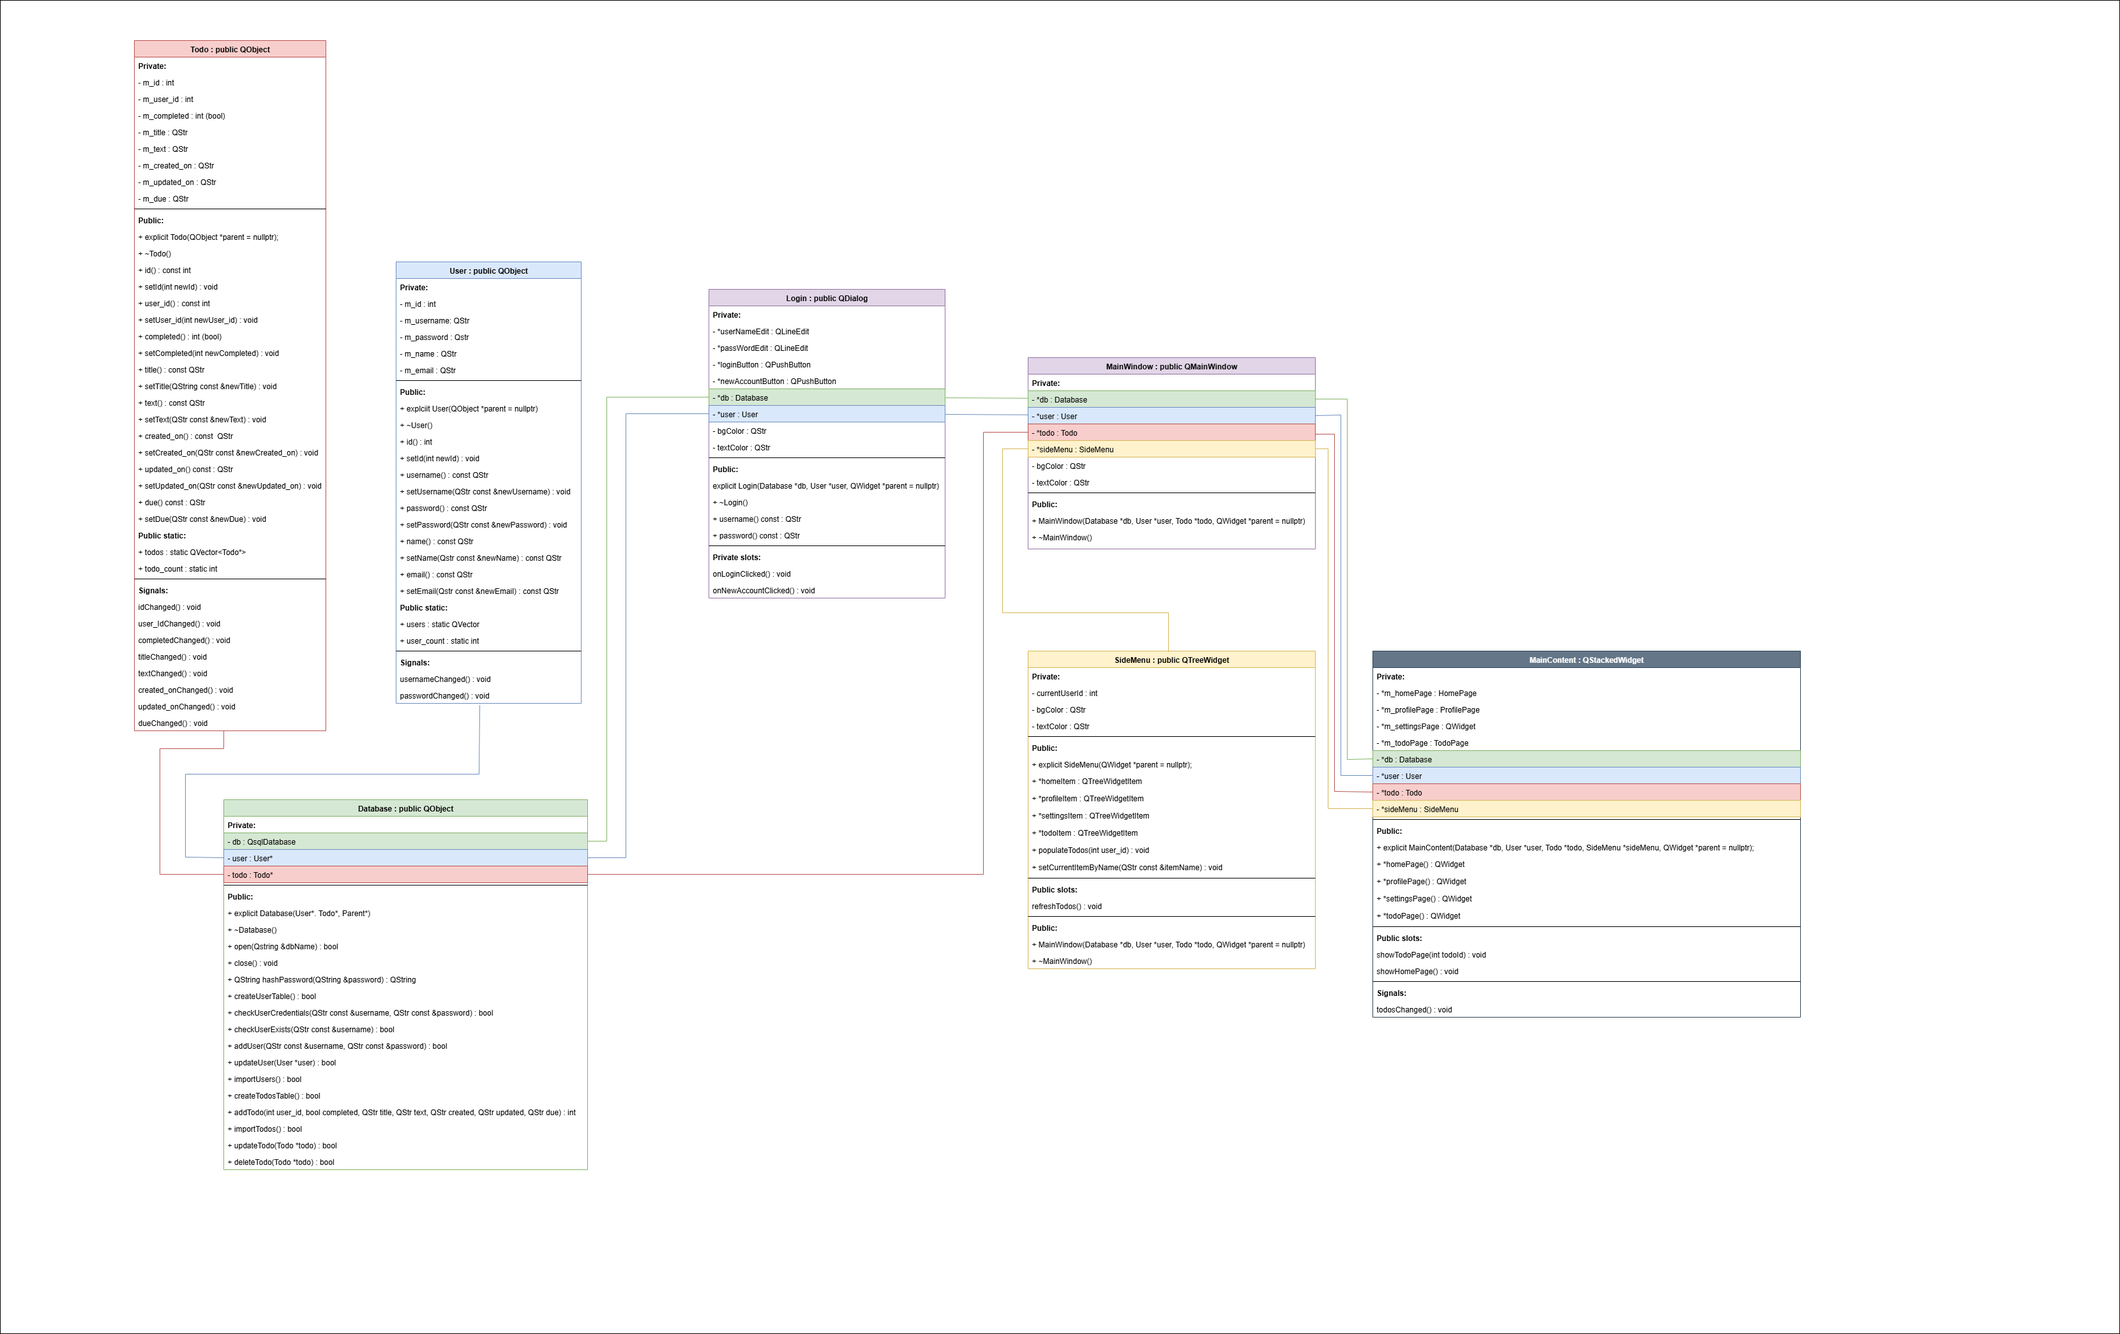
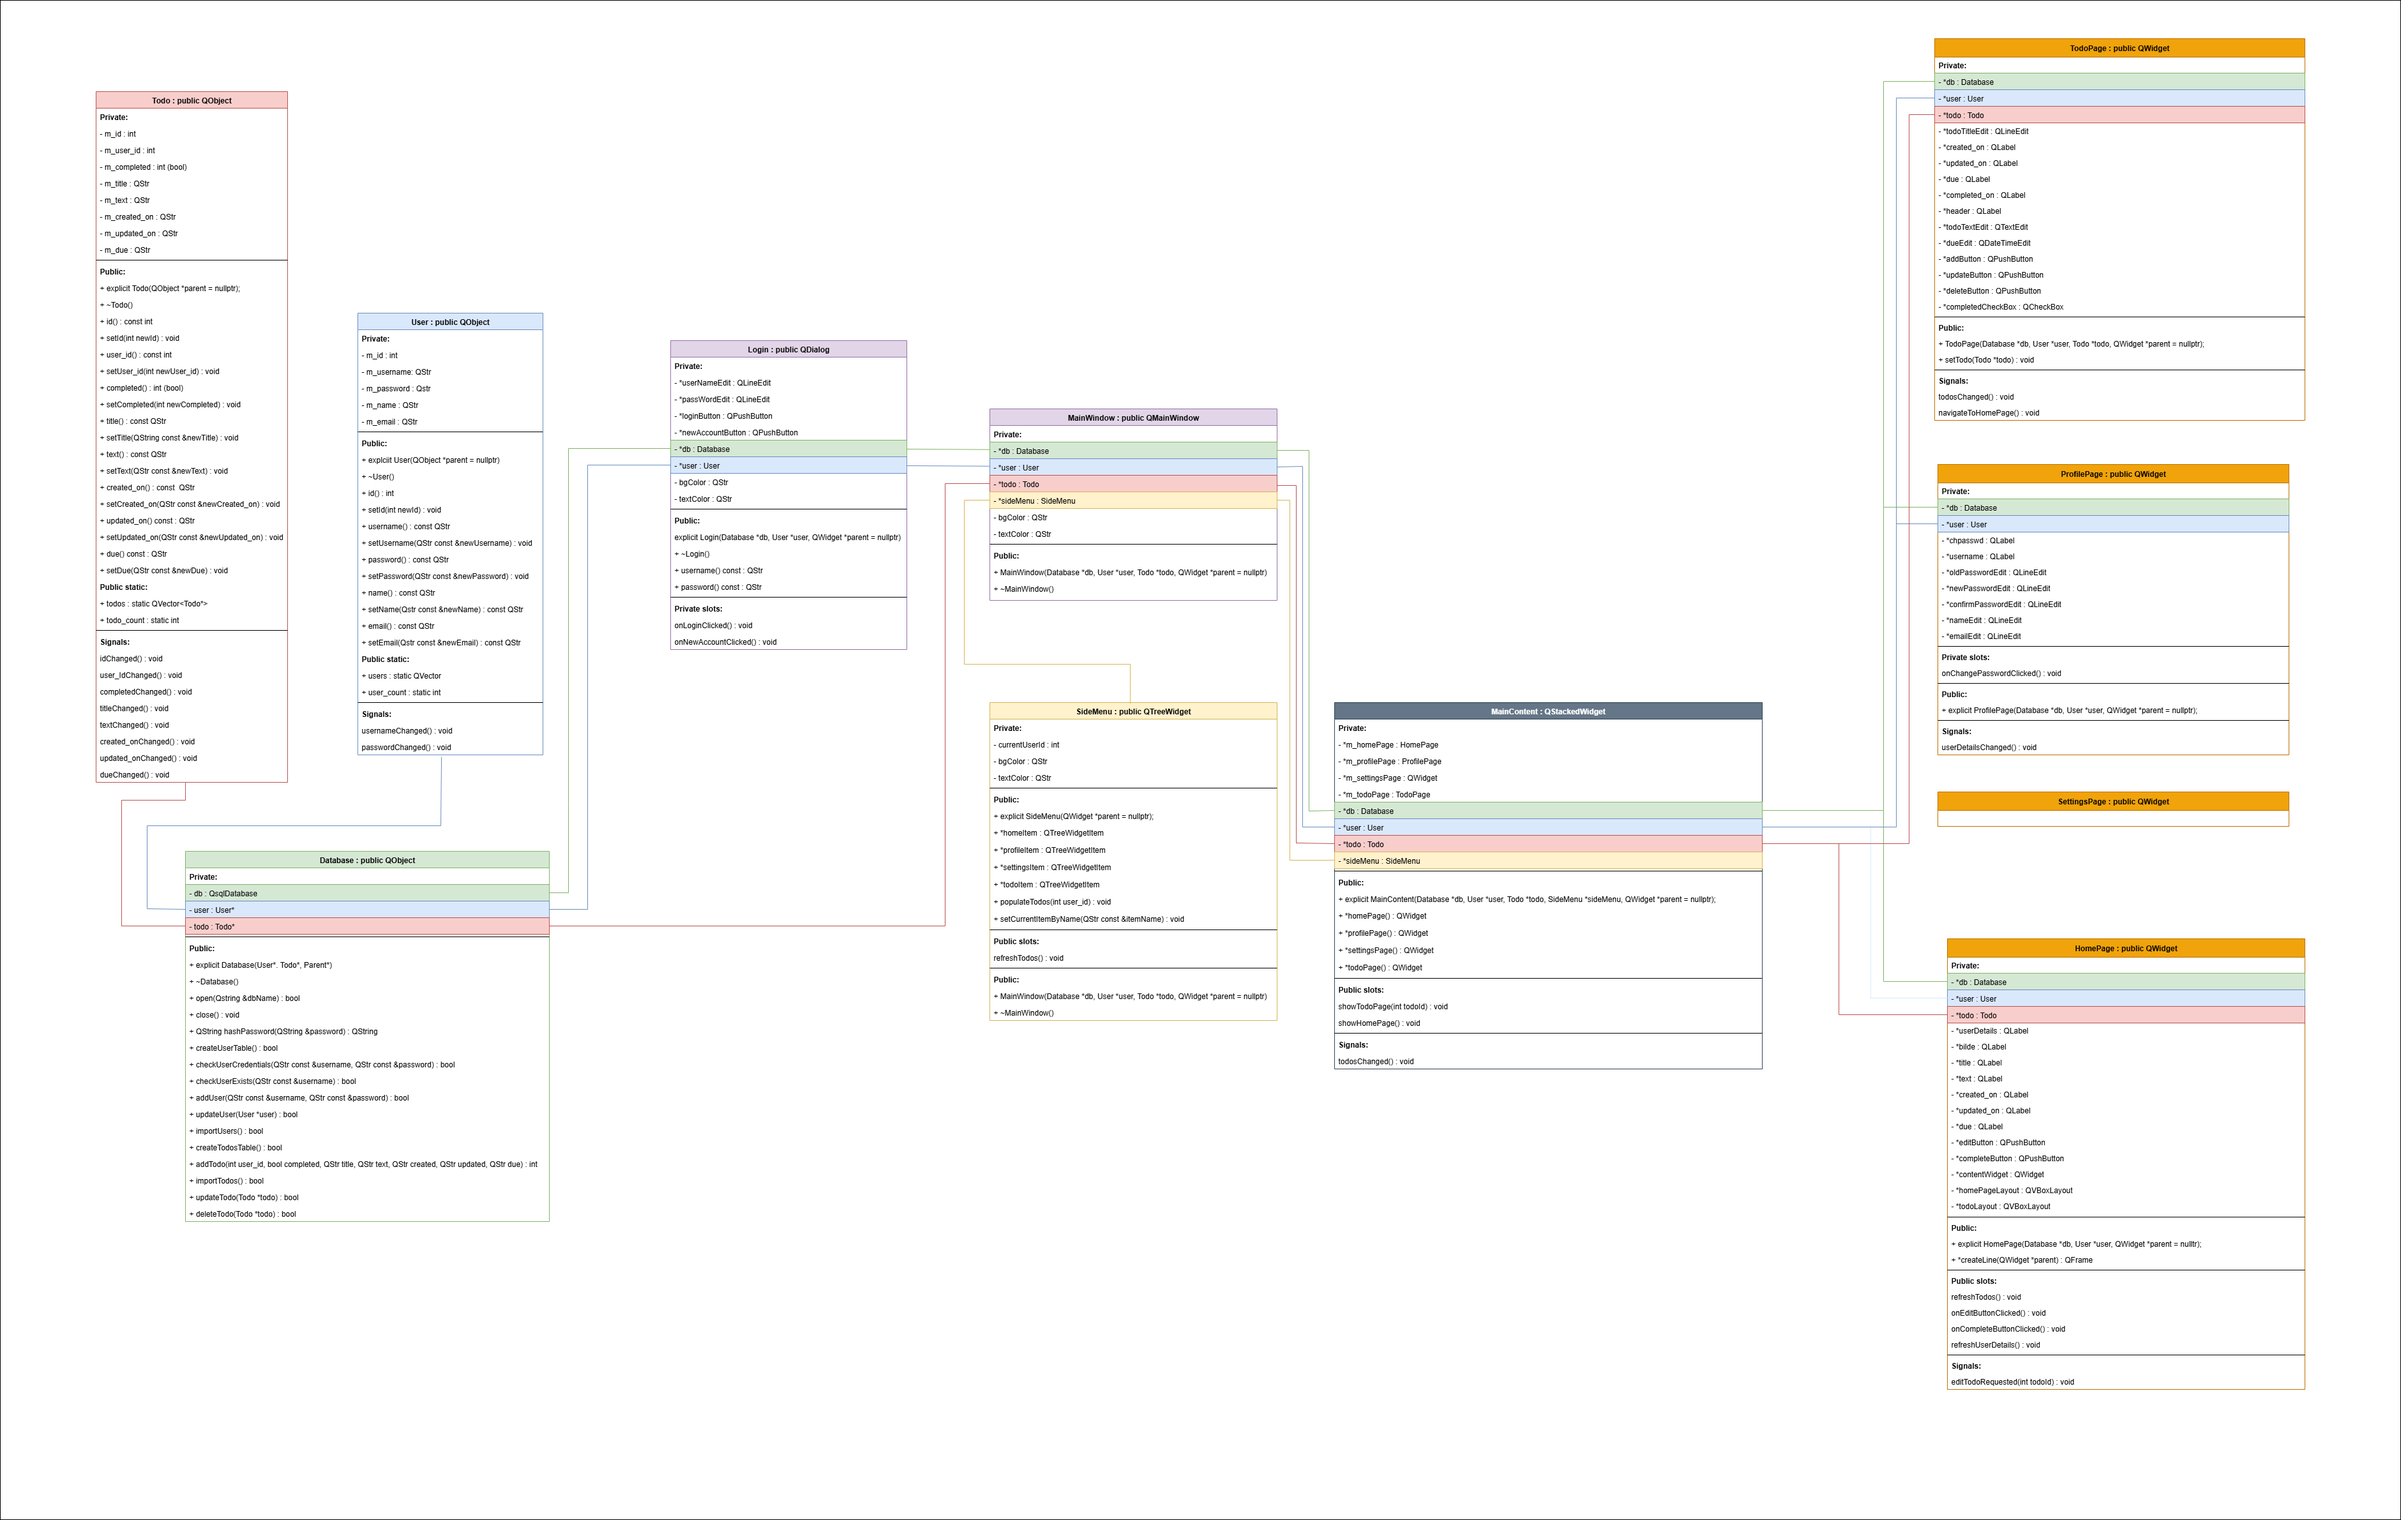
19.09.25 13:24 -

diff --git a/qtproject/homepage.cpp b/qtproject/homepage.cpp
@@ -136,7 +136,7 @@ void HomePage::refreshTodos() {
     });
 
     for (int i = 0; i < userTodos.length(); i++) {
-        Todo *todo = userTodos[i];
+        todo = userTodos[i];
         int todoId = todo->id();
 
         // Format DateTime strings
@@ -267,8 +267,8 @@ void HomePage::refreshTodos() {
                     .arg(btnBgColor, btnTextColor)
                 );
 
-            connect(completeButton, &QPushButton::clicked, this, [this,  todo]() {
-                todo->setCompleted(1);
+            connect(completeButton, &QPushButton::clicked, this, [this]() {
+                this->todo->setCompleted(1);
                 db->updateTodo(todo);
                 refreshTodos();
             });

diff --git a/qtproject/homepage.h b/qtproject/homepage.h
@@ -33,6 +33,7 @@ private:
 
     Database *db;
     User *user;
+    Todo *todo;
     QLabel *userDetails;
     QLabel *bilde;
 
